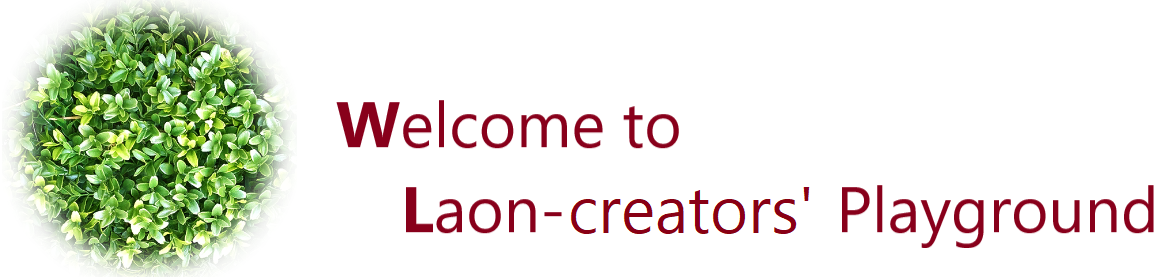
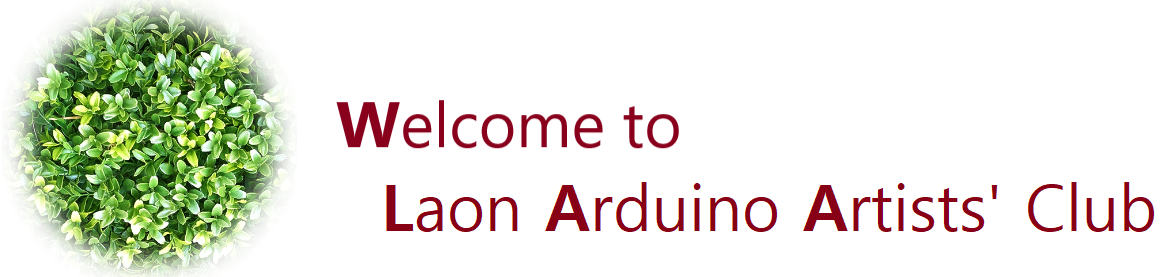
Updated dashboard.js and index page.

Changed region(s): [[0.3093, 0.6643, 1.0, 0.8953]]

diff --git a/js/dashboard.js b/js/dashboard.js
@@ -1,4 +1,4 @@
-/*  Author: Laon Maker (Laon Creators' Group)
+/*  Author: G.T. Cho (a Laon maker/artist in Laon Creators' Group)
     Version: 1.0
     Last update: Dec. 27, 2021
 */
@@ -41,48 +41,60 @@ let dashbdChart = new Chart("dashboardChart", {
     },
     options: {
         legend: { display: false },
-        title: {
-            display: true,
-            text: "Each Project Status (%)",
-        },
+        // title: {
+        //     display: true,
+        //     text: "Each Project Status (%)",
+        // },
     },
 });
-
 
 let prjHourChart = new Chart("projectHourChart", {
     type: "doughnut",
     data: {
-    labels: xPrjNames,
-    datasets: [{
+      labels: xPrjNames,
+      datasets: [{
         backgroundColor: prjChartColors,
         data: yPrjHours
-    }]
+      }]
     },
     options: {
-    title: {
-        display: true,
-        text: "Each Project's Work Hours"
-    }
+      legend: {position:'bottom'},
+    //   title: {
+    //     display: true,
+    //     // fontSize: 25,
+    //     // padding: 15,
+    //     // fontColor: 'blue',
+    //     text: "Each Project's Work Hours"
+    //   }
     }
 });
 
-let wTypeChart = new Chart("workTypeChart", {
+  let wTypeChart = new Chart("workTypeChart", {
     type: "pie",
     data: {
-    labels: xWorkTypeNames,
-    datasets: [{
+      labels: xWorkTypeNames,
+      datasets: [{
         backgroundColor: wTypebarColors,
         data: yWorkTypeHours
-    }]
+      }]
     },
     options: {
-    title: {
-        display: true,
-        text: "Hours of Dashboard Project's Work Type"
+      legend: {position:'bottom'},
+    //   title: {
+    //     display: true,
+    //     text: "Hours of Dashboard Project's Work Type"
+    //   },
+    //   layout: {
+    //       padding: {
+    //           left: 0,
+    //           right: 0,
+    //           top: 50,
+    //           bottom: 0
+    //       }
+    //   }
     }
-    }
-});
 
+});
 
 function getProjectWorkHours(prjIx) {
     let sum = 0;
@@ -109,7 +121,7 @@ function populateWorkTypeHours(prj) {
 }
 
 
-function updateProgress() {
+  function updateProgress() {
     let sel = document.getElementById('selPrj');
     let newVal = document.getElementById('newProgress');
     let ix = sel.selectedIndex - 1;
@@ -131,6 +143,7 @@ function chgPrjColor() {
 
     prjChartColors[i] = tmp;
     dashbdChart.update();
+    prjHourChart.update();
 }
 
 function shiftProjectStatus(chartIdName) {
@@ -151,11 +164,13 @@ function shiftProjectStatus(chartIdName) {
     yPrjProgress[i] = tmpY;
     prjChartColors[i] = tmpC;
     yPrjHours[i] = tmpH;
-    if( chartIdName == 'dashboardChart' ) {
-        dashbdChart.update();
-    } else {
-        prjHourChart.update();
-    }
+    // if( chartIdName == 'dashboardChart' ) {
+    //     dashbdChart.update();
+    // } else {
+    //     prjHourChart.update();
+    // }
+    dashbdChart.update();
+    prjHourChart.update();
 }
 
 function updatePrjHour() {
@@ -170,6 +185,25 @@ function updatePrjHour() {
         alert("invalid number!")
     }
 }
+
+
+// function shiftPrjHour() {
+//     let i = xPrjNames.length - 1;
+//     tmpPrj = xPrjNames[i];
+//     tmpH = yPrjHours[i];
+
+//     for (; i > 0; i--) {
+//         xPrjNames[i] = xPrjNames[i - 1];
+//         yPrjHours[i] = yPrjHours[i - 1];
+//         yPrjProgress[i] = yPrjProgress[i - 1];
+//     }
+
+//     xPrjNames[i] = tmpPrj;
+//     yPrjHours[i] = tmpH;
+//     yPrjProgress[i] = tmpY;
+//     prjHourChart.update();
+// }
+
 
 function showSelectedPrjWorkType(me) {
     let ix = me.selectedIndex;

diff --git a/dashboard.htm b/dashboard.htm
@@ -1,8 +1,8 @@
 <!DOCTYPE html>
 <!--
-    Author: Laon Maker (Laon Creators' Group)
-    Version: 1.0
-    Last update: Dec. 27, 2021
+    Author: G.T. Cho (a Laon maker/artist in Laon Creators' Group)
+    Version: 1.1
+    Last update: Jan. 30, 2022
  -->
 <html>
 
@@ -13,12 +13,11 @@
 
     <script src="https://cdnjs.cloudflare.com/ajax/libs/Chart.js/2.9.4/Chart.min.js"></script>
     <!--script src="ChartJs_2.9.4_Chart.min.js"></script-->
-    <title>Laon Creators' Dashboard</title>
+    <title>Laon Artists' Dashboard</title>
 </head>
 
 <body onload='initDashboard()'>
-    <h1 style='text-align:center'>Welcome to Laon Creators' Project Dashboard !</h1>
-    <br />
+    <h1 style='text-align:center'>Welcome to Laon Arduino Artists' Dashboard !</h1>
     <br />
     <hr />
     <div style='width:601px; text-align: center; margin: auto;'>
@@ -32,10 +31,10 @@
             <option>Ultrasonic Keyboard</option>
             <option>Flower</option>
             <option>Interactive LED</option>
-            <option>Reflective Wheel</option>
+            <option>Reflective Wheel</option>            
+            <option>Spinning blocks</option>
+            <option>Painting Light</option>
             <option>NFT Shop</option>
-            <option>Blog</option>
-            <option>Music Visualizer</option>
         </select><br /><br />
         <input id='newProgress' type='text' style="width:3em" />
         <button type="button" onclick="updateProgress()">Update Progress</button><br /><br />
@@ -56,10 +55,10 @@
             <option>Ultrasonic Keyboard</option>
             <option>Flower</option>
             <option>Interactive LED</option>
-            <option>Reflective Wheel</option>
+            <option>Reflective Wheel</option>            
+            <option>Spinning blocks</option>
+            <option>Painting Light</option>
             <option>NFT Shop</option>
-            <option>Blog</option>
-            <option>Music Visualizer</option>
         </select><br /><br />
         <input id='newHour' type='text' style="width:3em" />
         <button type="button" onclick="updatePrjHour()">Update Hours</button><br /><br />
@@ -78,10 +77,10 @@
             <option>Ultrasonic Keyboard</option>
             <option>Flower</option>
             <option>Interactive LED</option>
-            <option>Reflective Wheel</option>
+            <option>Reflective Wheel</option>            
+            <option>Spinning blocks</option>
+            <option>Painting Light</option>
             <option>NFT Shop</option>
-            <option>Blog</option>
-            <option>Music Visualizer</option>
         </select><br /><br />
         <!--label for="selWType">Work Type: </label-->
         <select id="selWType">
@@ -97,7 +96,7 @@
         <button type='button' onclick='shiftWorkTypeHour()'>Shift Projects</button>&nbsp;&nbsp;&emsp;
     </div>
     <hr />
-    <i style='font-size: small;'>Laon Creators' dashboard revision: 1.1. Last Updated: Dec. 26, 2021</i>
+    <i style='font-size: small;'>Arduino Artists' dashboard revision: 1.2. Last Updated: Jan. 30, 2022</i>
     <hr />
     <script src="data/projectInfo.js"></script>
     <script src="js/dashboard.js"></script>

diff --git a/data/projectInfo.js b/data/projectInfo.js
@@ -3,9 +3,9 @@ let projects = [
     {"name":"Ultrasonic Keyboard", "color":"orange", "progress":100, "kick-off":"Mar. 14, 2021", "Design":3,   "Development":15, "Test & Debug":6, "Change Request":5, "Customer Service":5},
     {"name":"Flower",              "color":"cyan",   "progress":100, "kick-off":"N/A",           "Design":2,   "Development":6,  "Test & Debug":2, "Change Request":0, "Customer Service":0},
     {"name":"Interactive LED",     "color":"green",  "progress":100, "kick-off":"Sep. 20, 2021", "Design":17,  "Development":70, "Test & Debug":16,"Change Request":10, "Customer Service":10},
-    {"name":"Reflective Wheel",    "color":"brown",  "progress":20,   "kick-off":"Dec. 22, 2021", "Design":11,   "Development":0,  "Test & Debug":0, "Change Request":0, "Customer Service":0},
-    {"name":"NFT Shop",            "color":"blue",   "progress":1,   "kick-off":"Dec. 18, 2021", "Design":0.5, "Development":0,  "Test & Debug":0, "Change Request":0, "Customer Service":0},
-    {"name":"Blog",                "color":"navy",   "progress":1,   "kick-off":"Dec. 18, 2021", "Design":0.1, "Development":0,  "Test & Debug":0, "Change Request":0, "Customer Service":0},
-    {"name":"Music Visualizer",    "color":"purple", "progress":1,   "kick-off":"Dec. 18, 2021", "Design":0.1, "Development":0,  "Test & Debug":0, "Change Request":0, "Customer Service":0}
+    {"name":"Reflective Wheel",    "color":"brown",  "progress":21,  "kick-off":"Dec. 22, 2021", "Design":16,   "Development":0,  "Test & Debug":0, "Change Request":0, "Customer Service":0},
+    {"name":"Spinning blocks",     "color":"navy",   "progress":1,   "kick-off":"Dec. 18, 2021", "Design":0.1, "Development":0,  "Test & Debug":0, "Change Request":0, "Customer Service":0},
+    {"name":"Painting Light",      "color":"purple", "progress":5,   "kick-off":"Jan. 29, 2022", "Design":2,   "Development":0,  "Test & Debug":0, "Change Request":0, "Customer Service":0},
+    {"name":"NFT Shop",            "color":"blue",   "progress":1,   "kick-off":"Dec. 18, 2021", "Design":0.5, "Development":0,  "Test & Debug":0, "Change Request":0, "Customer Service":0}
 ];
 

diff --git a/index.htm b/index.htm
@@ -1,8 +1,8 @@
 <!DOCTYPE html>
 <!--
-    Author: Laon Maker (Laon Creators' Group)
-    Version: 1.0
-    Last update: Dec. 27, 2021
+    Author: G.T. Cho (a Laon maker/artist in Laon Creators' Group)
+    Version: 1.1
+    Last update: Jan. 30, 2022
  -->
 <html lang="en">
 
@@ -10,7 +10,7 @@
   <meta charset="UTF-8">
   <!--meta http-equiv="X-UA-Compatible" content="IE=edge"-->
   <meta name="viewport" content="width=device-width, initial-scale=1.0">
-  <title>Laon Creators</title>
+  <title>Laon Artists' Club</title>
 </head>
 
 <body>
@@ -23,7 +23,7 @@
     <b style=' color: blue; font-size: 25px;'>Dashboard</b>
     <hr/>
     <div style='padding-left: 20px;'>
-      <b>This dashboard shows what projects Laon creators are either working on or planning to begin with.</b><br/><br/>
+      <b>This dashboard shows what projects Arduino Artists are either working on or planning to begin with.</b><br/><br/>
       <img src='img/dashboard.png' style='width:40%; margin-left: 25%;'/>
       <p><i>Click following link to get there:</i></p>
       <a href="dashboard.htm">GoTo Dashboard</a><br /><br/><br/>
@@ -34,7 +34,7 @@
           onclick="goToStatus('data/h:_data')"><i>Validate</i></button></i>&ensp;
       <a id='toStatus' href="#" hidden>GoTo Arduino Artist's Status</a>
       <i id='msg' style='color:red;'>&nbsp;</i><br/><br/>
-      <i style='font-size: small;'>Laon Creators' index revision: 1.2. Last Updated: Dec. 27, 2021</i>
+      <i style='font-size: small;'>Laon Creators' index revision: 1.3. Last Updated: Jan. 30, 2022</i>
     </div>
     <script src='js/index.js'></script>
     <hr />

diff --git a/data/h687979616E67_data.js b/data/h687979616E67_data.js
@@ -1,5 +1,6 @@
 let refRt = ["1-38-35", "39-51-23.34", "52-100-35"];
 let dateTimeLog = [
+    [1,  "2022.01.29", "16:15", "21:00", "5:45",  -1,     0,  4.28,   2, "Tested AC motor and updated the assemply scketch."],
     [1,  "2022.01.23", "15:50", "19:30", "3:40",  -1,     0,  6.28,   2, "Design of the next project (Reflective Wheel)."],
     [1,  "2021.12.24", "19:37", "22:37", "3:00",  -1,     0,  8.28,   0, "Free (meeting); motor and accessory for next project."],
     [1,  "2021.12.22", "11:02", "14:26", "4:24",  -1,     0,  8.28,   0, "Free (meeting); about '종강' and next projects."],
